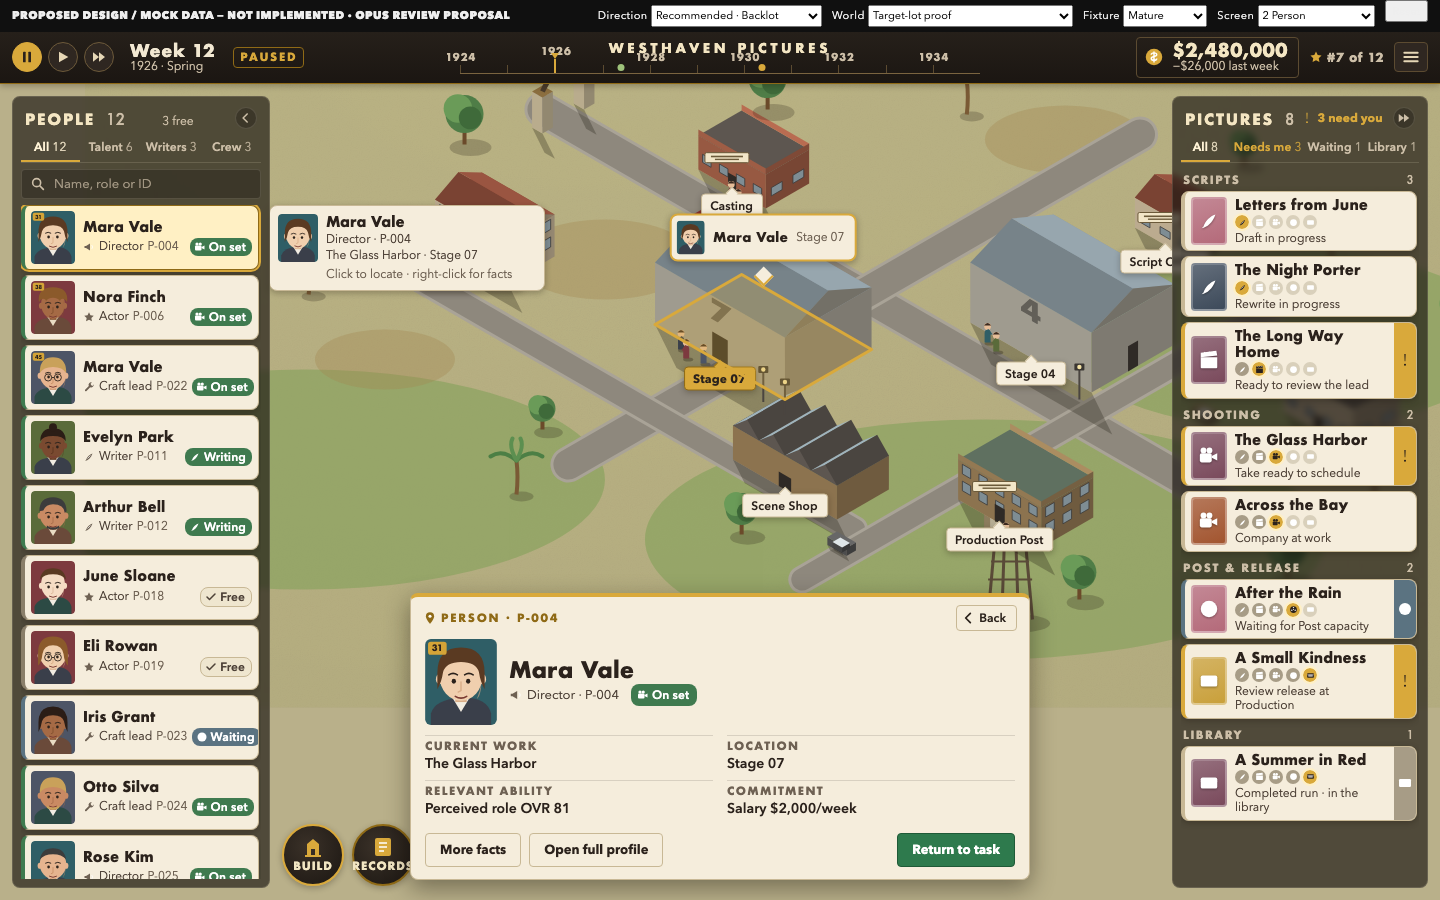
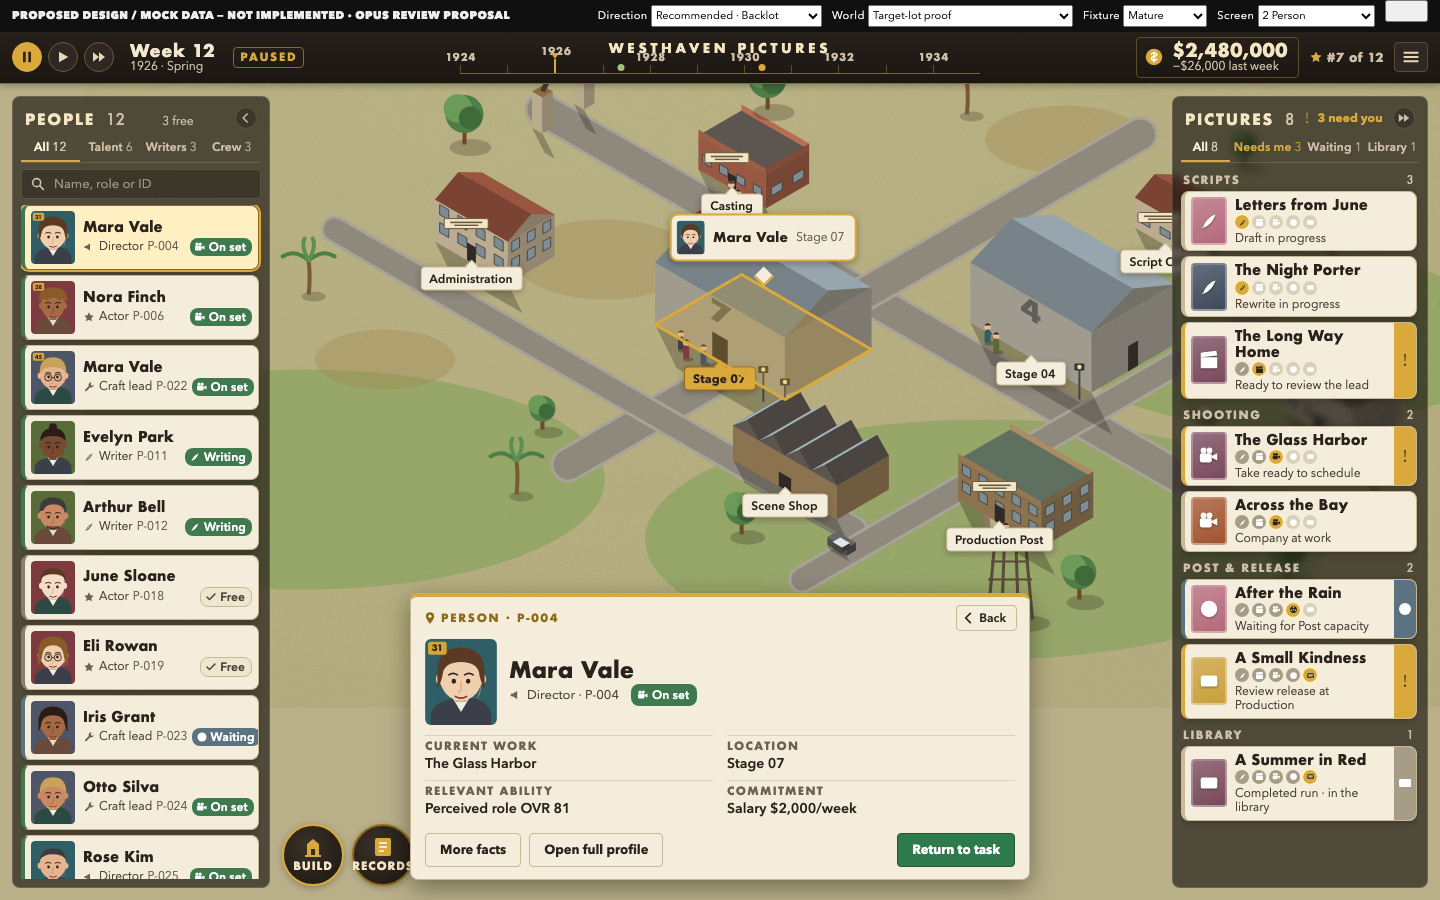
docs(uiux-opus): DESIGN, HANDOFF-TO-CODEX, WALKTHROUGH; prototype fixes and re-renders
Claude-Session: https://claude.ai/code/session_018W2B4AjN5Uyqcv5BfcP1Li

Changed region(s): [[0.1875, 0.2178, 0.4062, 0.3422]]

diff --git a/docs/operations/uiux-opus-r2-independent-review/assets/design/app.js b/docs/operations/uiux-opus-r2-independent-review/assets/design/app.js
@@ -142,12 +142,12 @@ function world() {
   return `<div class="world" aria-hidden="false"><div class="canvas" style="transform:translate(${shift.x}px,${shift.y}px)">${art}${labels}${marker}</div>${S.hover ? tooltip() : ''}</div>`;
 }
 function tooltip() {
-  const h = S.hover; const p = h.kind === 'person' ? person(h.id) : project(h.id); if (!p) return '';
+  const h = S.hover; if (!h || h.id === S.selectedPerson || h.id === S.selectedProject) return ''; const p = h.kind === 'person' ? person(h.id) : project(h.id); if (!p) return '';
   return `<div class="peek" style="left:${h.x}px;top:${h.y}px">${h.kind === 'person' ? `${portraitSVG(p, 40)}<div><strong>${esc(p.name)}</strong><span>${esc(p.role)} · ${esc(p.id)}</span><span>${esc(p.work)} · ${esc(p.place)}</span><em>Click to locate · right-click for facts</em></div>` : `<div><strong>${esc(p.title)}</strong><span>${esc(p.phase)} · ${esc(p.place)}</span><span>${esc(p.state)}</span><em>Click to open the picture</em></div>`}</div>`;
 }
 function factGroups(p) {
   return `<div class="facts">
-    <div><small>Current work</small><b>${esc(p.work)}</b></div><div><small>Location</small><b>${esc(p.place)}</b></div>
+    <div><small>Current work</small><b>${esc(p.work)}</b></div><div><small>Location</small><b>${buildingFor(p.place) ? esc(p.place) : 'Location unavailable — exact profile still inspectable'}</b></div>
     <div><small>Relevant ability</small><b>Perceived role OVR 81</b></div><div><small>Commitment</small><b>Salary $2,000/week</b></div>
     ${S.expanded ? `<div class="wide"><small>More about this person</small><b>Employment overhead $1,500/week · 12 weeks remain. Availability follows the current picture.</b></div>` : ''}
   </div>`;

diff --git a/docs/operations/uiux-opus-r2-independent-review/assets/design/data.js b/docs/operations/uiux-opus-r2-independent-review/assets/design/data.js
@@ -21,8 +21,8 @@ const FIXTURE = {
   ],
   // candidates used only by the casting compare board (R2 fixture identities)
   candidates: [
-    { id: 'P-008', name: 'Celia Ward', role: 'Actor', status: 'Available', fit: 84, ovr: 76, test: '77 · range 71–83', fee: '$18,000', note: 'Fits the role; this is not a guarantee of performance.', f: [3, 6, 0, 1, 0, 0] },
-    { id: 'P-015', name: 'Leon Hart', role: 'Actor', status: 'Unavailable · other film', fit: 79, ovr: 83, test: 'No test evidence', fee: '$24,000', note: 'Currently engaged. Viewing this record cannot assign this person.', f: [0, 1, 3, 0, 2, 1] },
+    { id: 'P-008', name: 'Celia Ward', role: 'Actor', group: 'Talent', work: 'Candidate for The Long Way Home', place: 'Casting', status: 'Available', fit: 84, ovr: 76, test: '77 · range 71–83', fee: '$18,000', note: 'Fits the role; this is not a guarantee of performance.', f: [3, 6, 0, 1, 0, 0] },
+    { id: 'P-015', name: 'Leon Hart', role: 'Actor', group: 'Talent', work: 'Another film (not this studio\'s fixture)', place: 'Location unavailable', status: 'Unavailable · other film', fit: 79, ovr: 83, test: 'No test evidence', fee: '$24,000', note: 'Currently engaged. Viewing this record cannot assign this person.', f: [0, 1, 3, 0, 2, 1] },
   ],
   projects: [
     { id: 'SCRIPT-019', title: 'Letters from June', phase: 'Writing', state: 'Draft in progress', place: 'Script Office', group: 'Scripts', genre: 'Romance', person: 'P-011', x: 71, y: 15 },

diff --git a/docs/operations/uiux-opus-r2-independent-review/DESIGN.md b/docs/operations/uiux-opus-r2-independent-review/DESIGN.md
@@ -1,0 +1,132 @@
+# DESIGN — two explorations, one recommended direction, four key screens
+
+**PROPOSED DESIGN / MOCK DATA — NOT IMPLEMENTED.** Everything below is rendered from the
+editable prototype in `assets/design/` (HTML/CSS/SVG + in-memory JS, no packages, no
+network) with the same fixture data as Codex R2 (`data.js` = `living-studio.js` @
+`e564d236`). Renders live in `assets/design-renders/`. The layout the Owner selected —
+people left, pictures right, useful lot centre — is kept in every board.
+
+## 1 · What the explorations had to solve
+
+From `FINDINGS.md`: the R2 layout is right; its *material* is wrong. Seven causes, in
+order: diagram lot; one repeated blank portrait; nested pale-blue rounded panels (12
+radii / 9 shadows); mock and tutorial prose inside the canvas; one system face with 10 px
+secondary text; Unicode-glyph icons; chrome that out-colours the world. The original
+game's HUD (manual p.5; Steam stills; footage) is the opposite of R2's: tiny glossy
+objects floating on a dominant world, portraits with badge slots, movie cards whose
+*picture* changes with the stage, a timeline along the top, one round Build button.
+
+## 2 · Exploration A — "Card stock" (finished evolution of the original's language)
+
+![Exploration A](assets/design-renders/X-A-overview.png)
+
+- No shelf: cream index cards float directly on the world, as the original's star cards
+  do; a cream header strip carries the group tabs and search; the HUD is cream too.
+- Portrait cards with rank badge, name in a geometric display face, role + ID, status
+  chip; picture cards with a genre-coloured poster tile, stage pictograms and the
+  decision tab.
+- Warm palette (card stock, brass, greenlight green), drawn two-tone icons, a year
+  timeline in the HUD, round Build/Records tools.
+
+*Judgment:* closest to the reference and immediately warmer than R2. Weaknesses seen in
+the render: (1) the world shows through the gaps between cards, so site labels and props
+leak between rows (see "Laboratory" poking through the right stack); (2) cream HUD + cream
+cards + olive lot is close to monotone; (3) the search and tab controls look like web
+form elements sitting on grass.
+
+## 3 · Exploration B — "Marquee glass" (contemporary interpretation)
+
+![Exploration B](assets/design-renders/X-B-overview.png)
+
+- Translucent dark-glass rails with white type and one amber accent; circular portraits
+  with a role/status ring; single-line rows at higher density; the same poster tiles and
+  phase pictograms; a dark HUD with the marque in a plain sans.
+- The world reads as a bright picture inside a dark mount.
+
+*Judgment:* clean, dense and legible, and it proves the layout does not need cream to
+work. But it is the generic modern management look (it could be any 2018–2025 sim);
+status colour is lost (every chip is amber-on-dark); the dark mount makes the lot feel
+framed rather than inhabited. Its two good ideas — a translucent shelf that groups the
+stack and holds tabs/counts, and denser rows with phase dots — are worth keeping.
+
+## 4 · Recommended — "Backlot" (A refined with B's shelf and density)
+
+![Recommended overview](assets/design-renders/K1-overview.png)
+
+Why this one: it keeps the reference's card language (cream stock, badge slots, stage
+pictograms, timeline, round Build) and fixes A's two defects with B's shelf — a
+66 %-opaque warm-dark ground behind each stack that stops the world leaking between
+cards, carries the tabs/counts/search in a quieter register, and gives the HUD and rails
+one dark family so the lot is the brightest thing on screen. Density comes from B (62 px
+people rows, 58 px picture rows). Nothing is black-and-gold for its own sake: gold is one
+accent used for exactly three things — selection, decision, "now" on the timeline.
+
+### Four key screens (clean + annotated + editable source)
+
+| Screen | Clean | Annotated | Prototype |
+| --- | --- | --- | --- |
+| K1 Mature studio overview — people, writing/scripts, mixed production states | `assets/design-renders/K1-overview.png` | `K1-overview-annotated.png` | `index.html?screen=overview` |
+| K2 Exact-person compact inspection, studio still tracked | `K2-person.png` | `K2-person-annotated.png` | `?screen=person` |
+| K3 Exact production with decision strip, company faces, worksite | `K3-production.png` | `K3-production-annotated.png` | `?screen=production` |
+| K4 Casting compare at higher density | `K4-compare.png` | `K4-compare-annotated.png` | `?screen=compare` |
+
+Constraint variants (to expose limits, not to inflate the count): `V-early.png` (3 staff,
+1 script — and the lot only has the buildings that exist), `V-long-names.png`,
+`V-waiting.png` (normal Post wait, no invented remedy), `V-compact-rails.png` (the
+original's portrait/poster stacks as a player-selectable density), `S-overview-1280-100`,
+`S-overview-1280-200`, `S-person-1280-200`, `S-compare-1280-200`.
+
+### Comparison against R2 at identical scale and data
+
+| Board | File |
+| --- | --- |
+| Overview 3-up: R2 · proposed on R2's own lot (UI change only) · proposed on the target lot | `CMP-01-overview-3up.png` |
+| Person 3-up | `CMP-02-person-3up.png` |
+| Casting compare 2-up | `CMP-03-compare-2up.png` |
+| Production 2-up | `CMP-04-production-2up.png` |
+| Detail crops at 100 % (rows, HUD, tools, compact card) | `CMP-05-detail-crops.png` |
+
+The middle column of `CMP-01` isolates the UI craft from the world: the same schematic
+lot as R2, the same data, only the chrome changed. Judge the UI there; judge the world
+target in the right column.
+
+### What is factual data and what is illustrative
+
+Factual (from R2's fixture): every name, ID, role, status, picture title, phase, state,
+place, cash, date, the Celia/Leon numbers, the $700,000 draft. Illustrative (added only to
+show a device, and labelled in `data.js`): rank badges (31/38/45), the studio rank "#7 of
+12", the "−$26,000 last week" delta, the timeline event pins, the "Spring" season word,
+the company-face rows (derived from the fixture's `work` field), the 12 procedural faces.
+
+### Screens retained from R2 unchanged (and why)
+
+Build catalogue / placement / construction (V05), Finance and Industry (V06), campaign
+and preference reviews (V07), film result (V08) and the P13B Laboratory entry are not
+re-rendered. Their *structure* passed the usability axis; they need only the material
+system from the sheet (tokens, radii, type, icons, strips) applied. Re-drawing them here
+would have displaced the design work the brief asked for.
+
+## 5 · Component / art-direction sheet
+
+`assets/design/components.html` → `assets/design-renders/C01-component-sheet.png`:
+palette roles with computed contrast pairs, the two-face type scale with size floors,
+spacing/radii/depth rules, the drawn icon set, the portrait standard (one system on every
+surface; twelve distinguishable placeholders), rail rows and statuses (normal / hover /
+selected / unavailable-with-reason), buttons (normal / hover / pressed / focus /
+disabled), response strips (decision / wait / pending / receipt / refused / unresolved),
+rail density, ordering, grouping, overflow, resizing and selection feedback, and the
+motion/audio intent.
+
+## 6 · Art dependencies declared
+
+1. **Lot art target.** The target-lot proof is code-drawn "greybox-plus". The real lot
+   needs textured ground, building materials, signage, posed people and props at least at
+   this fidelity — an art task with its own owner. The UI is judged on the R2-lot column of
+   `CMP-01` until then.
+2. **Portraits.** Twelve fixture faces at 44/72/96/120 px in one style (original
+   illustration or licensed), plus the badge-slot convention.
+3. **Type.** A licensed geometric Deco-flavoured display face and a humanist sans. Renders
+   here use macOS system faces (Futura, Avenir Next); the CSS stacks fall back to Gill
+   Sans / Trebuchet MS and the layout does not depend on metrics.
+4. **Icons.** The 21 drawn silhouettes in `app.js` are a starting set to be redrawn by an
+   icon artist at 16/20/28.

diff --git a/docs/operations/uiux-opus-r2-independent-review/WALKTHROUGH.md b/docs/operations/uiux-opus-r2-independent-review/WALKTHROUGH.md
@@ -1,0 +1,70 @@
+# WALKTHROUGH — heuristic / cognitive walkthrough and prototype observations
+
+**What this is:** a reviewer who already knows the design cannot run an uncoached
+usability study. This file records (a) a cognitive walkthrough of the eight tasks the
+brief names, on both the R2 prototype and the proposal prototype, (b) concrete prototype
+observations from isolated Chromium runs (`assets/r2-evidence/r2-exercise.js`,
+`assets/design/render.cjs`), and (c) short task scripts so the Owner can judge the design
+without a narrated tour. It is not evidence of task success by real players.
+
+Both prototypes were run only in fresh headless contexts with every non-`file://` request
+aborted; both declare `connect-src 'none'`; neither touches storage, the bridge, a
+campaign or the economy. R2: 0 page errors / 0 network attempts. Proposal: 0 / 0.
+
+## A · Cognitive walkthrough (8 tasks)
+
+Scale: **clear** = the next action is visible and its result is understandable without
+reading; **readable** = achievable but requires reading small text or a second look;
+**weak** = the cue is missing or ambiguous.
+
+| # | Task | R2 (`e564d236`) | Proposal | Evidence |
+| --- | --- | --- | --- | --- |
+| 1 | Locate an idle employee | **readable** — "○ Available" in 11 px grey under the name; no filter for "free"; the tutorial card offers "Find available people" as a link | **clear** — "3 free" in the rail header; "✓ Free" chip in 12 px on a light chip with the edge bar uncoloured; Talent tab narrows to actors/directors | `R2-09`, `K1` |
+| 2 | Find who is on a picture | **readable** — open the picture card, then "Person: Mara Vale" button; company only in the detailed view | **clear** — "Company on this picture" face row inside the compact card; each face is a button to that exact person | `A02`, `K3`, `J5` |
+| 3 | Distinguish writing from casting-ready | **readable** — both are "Scripts"; the difference is the word "Casting" and a "!" | **clear** — phase pictograms (quill lit vs clapper lit) plus the gold "!" tab; the Scripts group keeps them together on purpose | `CMP-05` picture rows |
+| 4 | Identify a normal wait vs a real decision | **weak** — "Post · Waiting for Post capacity" vs "Shooting · ! Take ready to schedule": punctuation and prose | **clear** — grey clock tab and blue-grey edge vs gold "!" tab and gold edge; "Needs me 3" and "Waiting 1" counts in the tabs | `CMP-05`, `J10` |
+| 5 | Inspect and return without losing context | **clear** — both rails persist; Back restores view and offset (Codex's checker + my re-run) | **clear** — same; the lot pans to the target and pans back; hotkeys 1/2 return focus to a rail | `R2-16`, `J6`, `J7` |
+| 6 | Compare candidates | **clear** — two columns, numbers, availability chips; portraits are blank | **clear** — same structure with faces, fit/OVR bars beside the numbers, the retained draft shown as faces | `A03`, `K4` |
+| 7 | Cancel a draft | **clear** (R2 V05 Build: Cancel placement visible) — proposal retains R2's Build/Cancel unchanged (not re-rendered) | **unchanged** — declared out of the four key screens | `R2-19` |
+| 8 | Observe pending / refusal | **clear** — fixture select + strip; styled as web alerts | **clear** — pending disables the primary, receipt strip with check, refusal strip with "!"; response fixture control moved out of the game canvas (not present in the proposal prototype; states are shown on the sheet) | `J8`, `J9`, `C01` |
+
+Keyboard (both): Tab/Shift-Tab reach every control; Enter activates; Escape backs out.
+R2: first person row after ~10 Tabs (lot labels precede rails). Proposal: first person row 3
+Tabs after the HUD (roving tabindex on the tab strips; `1`/`2` jump to a rail;
+Up/Down move within a list).
+
+## B · Prototype observations (proposal), with the defects I found and fixed
+
+- Candidate inspection showed `undefined` for work/location for Leon (fixed: candidates
+  carry `work`/`place`; a place with no building renders "Location unavailable — exact
+  profile still inspectable", so a missing body never reads as unemployment).
+- The hover peek persisted over the selected person after a click (fixed: no peek for the
+  selected identity).
+- At 1280 × 720 the status chip clipped on "Craft lead P-02x" rows (fixed: chip wraps under
+  the role at that canvas).
+- Rows in the rails could shrink under flex pressure at 200 % text (fixed: `flex: none`).
+- Measured after fixes: 3 radii (4 px, 8 px, 50 %), 2 shadows, 0 reading text under
+  12 px, 0 tracked labels under 10 px, 12 / 12 distinct portraits.
+
+## C · Short task scripts for the Owner (no narration)
+
+Open `assets/design/index.html` (from the extracted ZIP; keep the folder together).
+
+1. **Who is free?** Look at the left rail only. Say the number of free people and one name.
+2. **Where is Nora Finch?** Click her. Say the building. Press Escape.
+3. **What needs you?** Look at the right rail only. Name the pictures that need a decision, then name the one that is only waiting.
+4. **Schedule.** Click *The Glass Harbor*. Say what the decision is and what it costs. Click the green button. Say what changed on the right rail.
+5. **Cast.** Click *The Long Way Home*. Say who is in the lead draft and why Leon cannot be assigned. Click *Inspect record* on Leon, then press Escape — is the draft intact?
+6. **Compare.** Switch the Direction control to *Exploration A*, then *B*, then back to *Recommended*. Say which one you would keep and what you would change.
+7. **Same data, R2 lot.** Switch World to *R2 schematic*. Say whether the rails read better or worse than R2's on the same background.
+8. **Compact.** Press the small ‹ button in the People header. Say whether you would ever play in this mode.
+
+## D · Future human / native tests (not performed)
+
+- Uncoached 5-person think-aloud on tasks 1–5 with the native build, both viewports,
+  100 % and the supported large-text setting.
+- Read-distance test: 1080p TV at 2.5 m for the rail rows and decision tabs.
+- Colour-vision simulation (deuteranopia/protanopia) on the status chips and the decision
+  tab — the words and shapes must carry the meaning without the hue.
+- Native hitbox check for the 22 px edge tabs and the 30 px transport buttons.
+- Long-roster test (40+ people, 20+ pictures) for scroll, group headers and search.

diff --git a/docs/operations/uiux-opus-r2-independent-review/HANDOFF-TO-CODEX.md b/docs/operations/uiux-opus-r2-independent-review/HANDOFF-TO-CODEX.md
@@ -1,0 +1,60 @@
+# HANDOFF TO CODEX — prioritized, presentation vs interaction, dependencies, boundaries
+
+Codex remains the author of R2. This is a reviewer's recommendation for what deserves to
+be built, ordered by how much each item improves the main studio experience. It is not an
+execution order, a schedule, or an assignment to any worker; Current Ops owns the
+planning handoff and the selected sequence (Playability & Interaction before the targeted
+P13B refresh) is unchanged.
+
+## P1 · Presentation changes (no read-model or rule change)
+
+| # | Change | Finding | Where in the proposal |
+| --- | --- | --- | --- |
+| 1 | Replace the panel material: translucent warm-dark shelf behind each rail; cream card stock rows; two radii (4/8 px); two shadows; selection by outline | V-03, V-07 | `design.css` tokens; `.rail`, `.row` |
+| 2 | Remove all mock/tutorial prose from the game canvas: the "Follow your people…" card, the "Original schematic lot" chip, both rail-footer captions, the fixture strips (keep them in the demo bar / annotation rail) | U-06, U-07, V-10 | `index.html` demo bar; annotation rail |
+| 3 | Typography: display face for HUD numerals, names, titles; humanist sans body; floor 12 px reading / 10 px tracked labels | V-04 | sheet §2 |
+| 4 | One drawn icon set; corner cluster reduced to Build + Records; Lot/Controls removed | V-05, U-11 | `ICON` in `app.js`; `.corner` |
+| 5 | Picture cards: genre poster tile with the stage pictogram; five phase pictograms with the current one lit; gold "!" edge tab for decisions, grey clock for waits; group headers with counts; tabs with counts | U-09, U-16, V-14 | `pictureRow`, `.tab`, `.phases` |
+| 6 | People cards: portrait standard (44 px, badge slots), name in display face, role + ID + status chip on line 2, status colour on the left edge; "N free" in the header | V-02, U-17 | `personRow`, `portraits.js` |
+| 7 | HUD: 52 px, transport cluster + date + PAUSED stamp; year timeline with event pins; cash with delta; rank; Menu | V-06, U-14 | `hud()` |
+| 8 | Site labels anchored to the building base with a pointer; selected label goes gold; footprint outline on the selected building; located marker above it | U-05, U-08, V-09 | `.site`, `.fp`, `.marker` |
+| 9 | Response strips styled as strips with icon + bold sentence + consequence (not web alerts) | V-11 | sheet §7 |
+| 10 | Compact rail mode (portrait/poster stacks) as a player option | — | `?rails=compact` |
+
+## P2 · Interaction changes (input/navigation; no new game rules)
+
+| # | Change | Finding |
+| --- | --- | --- |
+| 1 | Focus order: HUD → people tab strip (one stop, arrows) → search → rows; `1` / `2` jump to a rail; Up/Down within a list; Escape backs out | U-12 |
+| 2 | Locate pans the lot to the target (R2 already translates the mock world; keep, and light the footprint) | U-05 |
+| 3 | Company-face row inside the compact production card (click → exact person) | task 2 |
+| 4 | Hover peek suppressed for the currently selected identity; right-click = "More facts" in place | U-04 |
+| 5 | Navigation consolidated: cash → Finance; Menu → campaigns/help; Records → the deep views; no inert tool on the default screen | U-11 |
+
+## P3 · Safe read-model dependencies (unchanged from R2's routing; restated)
+
+- Complete employee discovery still requires authoritative roster membership joined to
+  presence / Profile / locatable-body data (R2 ROUTING A1/A7). The proposal's "N free"
+  count and company-face rows are derived from the fixture's `work`/`status` fields and
+  need the same join. Presence counts are not employee counts; a missing body shows
+  "Location unavailable" with the exact profile still inspectable (implemented in the
+  proposal's inspector).
+- Phase pictograms map to existing discrete phases; no percentage is computed.
+- Rank badges, the "#7 of 12" studio rank, the cash delta and the timeline event pins are
+  illustrative devices; each needs a real owner before it appears natively, or it is
+  omitted.
+
+## P4 · P13B boundaries
+
+Laboratory workflow, staffing, funding and research remain P13B-owned. The proposal
+shows only shared visual conventions (site label, building material, strip styles) that
+P13B may adopt; no Laboratory screen was re-drawn.
+
+## P5 · Native-verification gaps (carried from R2's A1–A8, plus)
+
+- Real hitboxes for 22 px edge tabs and 30 px transport buttons on supported devices.
+- Rail density with 40+ people and 20+ pictures; sticky group headers under native scroll.
+- Type rendering with the licensed faces at 1280×720 / 1440×900 / 1920×1080 and the
+  supported large-text setting (the prototype's 200 % is selective, as R2's was).
+- Colour-vision and read-distance checks on chips and tabs.
+- The lot art target is an art deliverable; nothing here changes the renderer.
